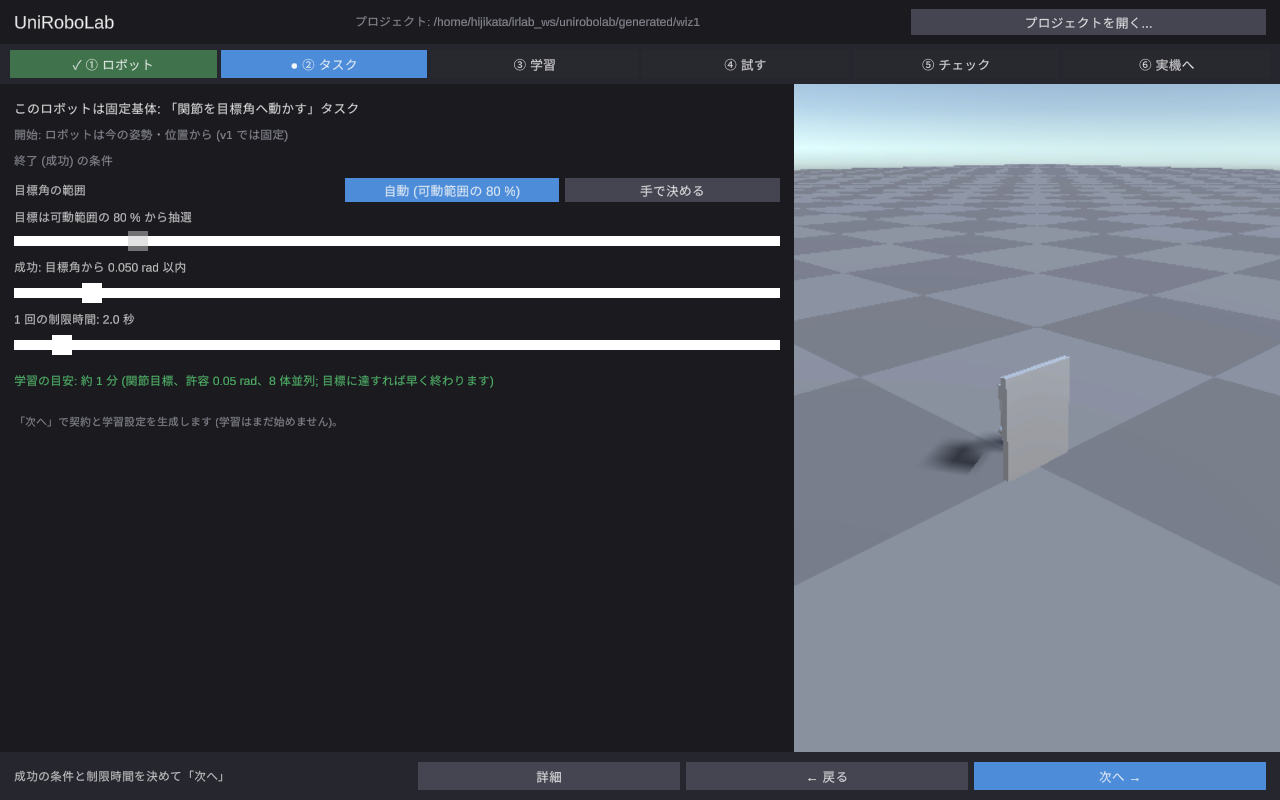
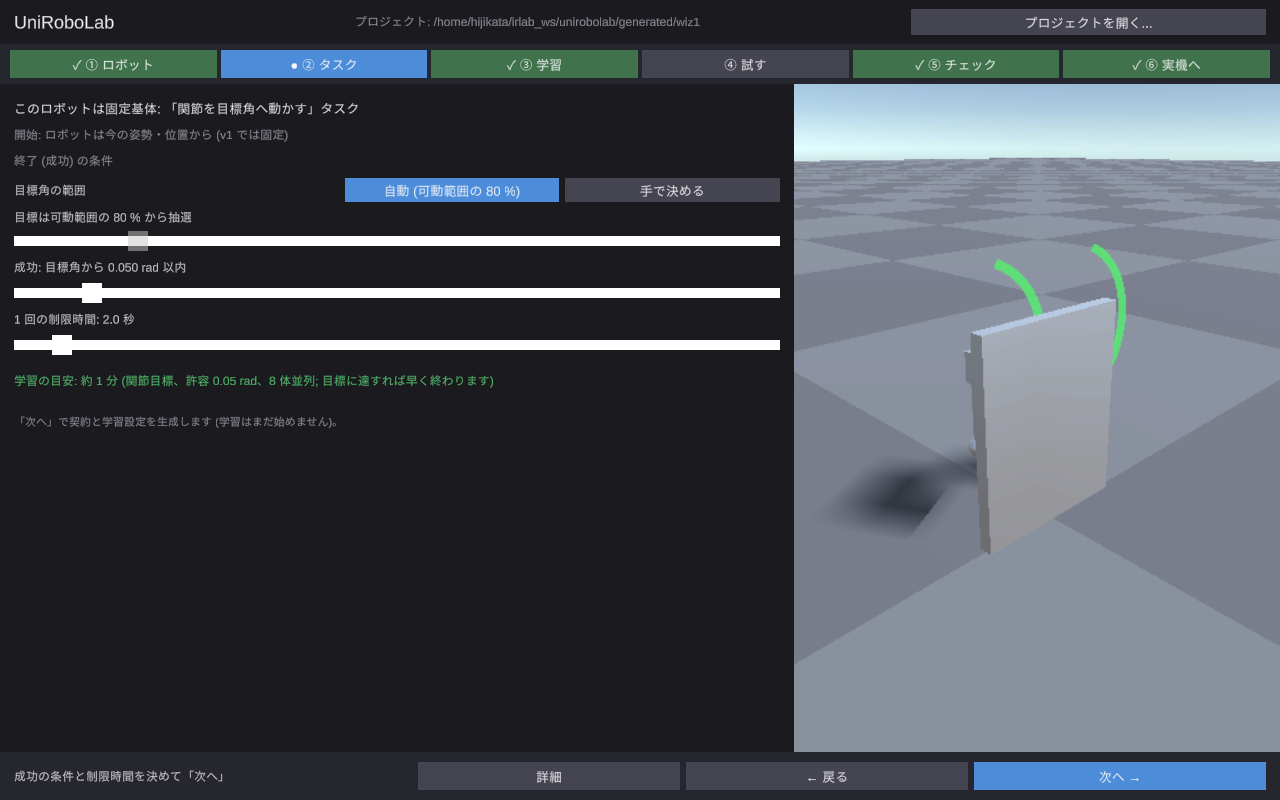
[add] ② タスク画面: 関節目標の範囲を各回転関節の弧 (緑) で 3D に描く

Changed region(s): [[0.3125, 0.0625, 1.0, 0.125], [0.6562, 0.3125, 0.9062, 0.6875], [0.625, 0.1875, 1.0, 0.2188]]

diff --git a/unity/UniRoboLab/Assets/UniRoboLab/Scripts/PhaseTask.cs b/unity/UniRoboLab/Assets/UniRoboLab/Scripts/PhaseTask.cs
@@ -1,3 +1,4 @@
+using System.Collections.Generic;
 using System.Text;
 using TMPro;
 using UnityEngine;
@@ -19,6 +20,7 @@ public class PhaseTask : Phase
     float m_EstAt = -1f;
     bool m_Generating;
     LineRenderer m_RingIn, m_RingOut;
+    readonly List<LineRenderer> m_Arcs = new List<LineRenderer>();   // 関節目標: 各関節の目標範囲を弧で
 
     public override void Build(RectTransform main, RectTransform details)
     {
@@ -77,6 +79,7 @@ public class PhaseTask : Phase
         if (m_IsBase) { m_RMin.value = g.region.r_min; m_RMax.value = g.region.r_max; }
         else { bool manual = g.range != null && g.range.Length == 2; m_RangeMode.Set(manual ? 1 : 0); if (manual) m_Range.value = Mathf.Max(Mathf.Abs(g.range[0]), Mathf.Abs(g.range[1])); }
         m_Tol.onValueChanged.Invoke(m_Tol.value); m_Time.onValueChanged.Invoke(m_Time.value);
+        DrawGoal();
         RefreshDetails();
         W.Status(Ui.T("成功の条件と制限時間を決めて「次へ」", "Set the success condition and the time limit, then Next"));
     }
@@ -139,10 +142,11 @@ public class PhaseTask : Phase
         m_TrainText.text = System.IO.File.Exists(t) ? System.IO.File.ReadAllText(t) : Ui.T("(まだありません)", "(none yet)");
     }
 
-    /// <summary>3D: 地点到達なら環 (緑) を描く。関節目標は v1 では描かない。</summary>
+    /// <summary>3D: 地点到達なら環 (緑)、関節目標なら各関節の目標範囲を弧 (緑) で描く。</summary>
     void DrawGoal()
     {
-        if (!m_IsBase) { if (m_RingIn != null) { m_RingIn.enabled = false; m_RingOut.enabled = false; } return; }
+        if (!m_IsBase) { if (m_RingIn != null) { m_RingIn.enabled = false; m_RingOut.enabled = false; } DrawJointArcs(); return; }
+        foreach (LineRenderer a in m_Arcs) a.enabled = false;
         if (m_RingIn == null) { m_RingIn = MakeRing("GoalRingIn"); m_RingOut = MakeRing("GoalRingOut"); }
         Ring(m_RingIn, m_RMin.value); Ring(m_RingOut, m_RMax.value);
         m_RingIn.enabled = m_RingOut.enabled = true;
@@ -166,6 +170,55 @@ public class PhaseTask : Phase
         for (int i = 0; i < n; i++) { float a = i * Mathf.PI * 2f / n; lr.SetPosition(i, new Vector3(Mathf.Cos(a) * r, 0.02f, Mathf.Sin(a) * r)); }
     }
 
-    public override void Leave() { if (m_RingIn != null) { m_RingIn.enabled = false; m_RingOut.enabled = false; } }
+    /// <summary>プレビューのロボット (① でスポーン) の回転関節ごとに、目標角の範囲を弧で描く。</summary>
+    void DrawJointArcs()
+    {
+        var buf = new List<GameObject>(); W.Sim.GetEntitiesSnapshot(buf);
+        GameObject ent = null; foreach (GameObject e in buf) if (e != null) { ent = e; break; }
+        int k = 0;
+        if (ent != null)
+        {
+            float range = m_RangeMode.Index == 1 ? m_Range.value : AutoRange();
+            foreach (ArticulationBody ab in ent.GetComponentsInChildren<ArticulationBody>())
+            {
+                if (ab.isRoot || ab.jointType != ArticulationJointType.RevoluteJoint) continue;
+                if (k >= m_Arcs.Count) m_Arcs.Add(MakeRing("JointArc" + k));
+                LineRenderer lr = m_Arcs[k++]; lr.loop = false; lr.startWidth = lr.endWidth = 0.012f;
+                Vector3 center = ab.transform.TransformPoint(ab.anchorPosition);
+                Vector3 axis = ab.transform.TransformDirection(ab.anchorRotation * Vector3.right).normalized;   // 関節の回転軸
+                Vector3 radial = Vector3.Cross(axis, Mathf.Abs(Vector3.Dot(axis, Vector3.up)) > 0.9f ? Vector3.forward : Vector3.up).normalized;
+                float r = 0.12f; const int n = 40;
+                lr.positionCount = n + 1;
+                for (int i = 0; i <= n; i++)
+                {
+                    float a = -range + 2f * range * i / n;   // 現在角 0 を中心に ±range
+                    lr.SetPosition(i, center + Quaternion.AngleAxis(a * Mathf.Rad2Deg, axis) * radial * r);
+                }
+                lr.enabled = true;
+            }
+            var cam = Camera.main != null ? Camera.main.GetComponent<LabCamera>() : null;
+            if (cam != null && k > 0) { var rs = ent.GetComponentsInChildren<Renderer>(); if (rs.Length > 0) { Bounds b = rs[0].bounds; foreach (Renderer rr in rs) b.Encapsulate(rr.bounds); cam.target = b.center; cam.distance = Mathf.Max(0.8f, b.extents.magnitude * 3f); } }
+        }
+        for (int i = k; i < m_Arcs.Count; i++) m_Arcs[i].enabled = false;
+    }
+
+    /// <summary>「自動」のときの目標範囲 (可動範囲の 80 %) を表示用に見積もる: 生成された学習設定があればそれ、無ければ 1.0。</summary>
+    float AutoRange()
+    {
+        string t = P.Abs(P.D.train);
+        if (System.IO.File.Exists(t))
+        {
+            string json = System.IO.File.ReadAllText(t);
+            int i = json.IndexOf("\"goal_range\"", System.StringComparison.Ordinal);
+            if (i >= 0) { int a = json.IndexOf('[', i), b = json.IndexOf(']', a); if (a > 0 && b > a) { string[] p = json.Substring(a + 1, b - a - 1).Split(','); if (p.Length == 2 && float.TryParse(p[1], out float hi)) return Mathf.Abs(hi); } }
+        }
+        return 1.0f;
+    }
+
+    public override void Leave()
+    {
+        if (m_RingIn != null) { m_RingIn.enabled = false; m_RingOut.enabled = false; }
+        foreach (LineRenderer a in m_Arcs) a.enabled = false;
+    }
     public override void Action(string name) { if (name == "next") OnNext(); }
 }
